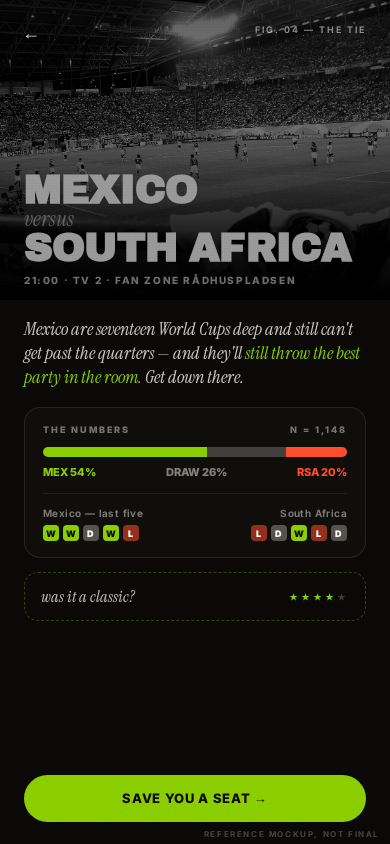
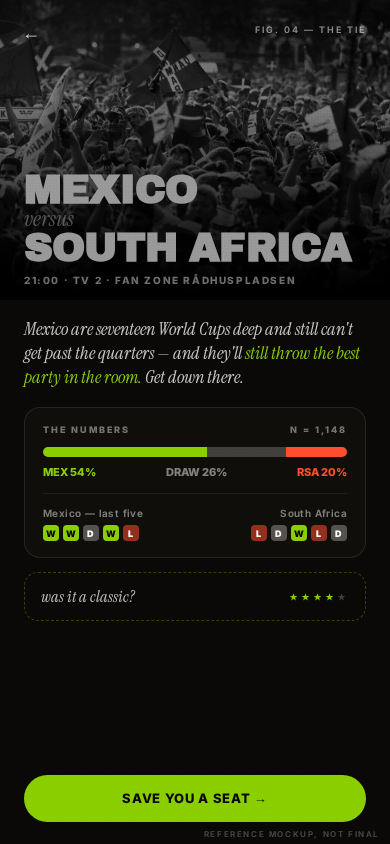
design(rebrand): use the Denmark Euro '92 fan celebration as the hero backdrop
The crowd-of-flags '92 win photo IS the thesis (the city converging — 'find your
people'). Swapped into the splash + match-detail mockups. NOTE: it's a copyrighted
press image used as a reference placeholder only — must be licensed or replaced
with a free equivalent before it ships (see img/README.md).

Changed region(s): [[0.0, 0.0, 1.0, 0.2773]]

diff --git a/docs/rebrand-mockups/blend/c-match.html b/docs/rebrand-mockups/blend/c-match.html
@@ -7,7 +7,7 @@
  .grain{position:absolute;inset:0;opacity:.06;background-image:radial-gradient(rgba(255,255,255,.9) .6px,transparent .7px);background-size:3px 3px;mix-blend-mode:overlay;pointer-events:none;z-index:6}
  /* hero photo — the two teams, archival B&W, the room behind */
  .hero{position:absolute;top:0;left:0;right:0;height:300px;
-   background:url('https://commons.wikimedia.org/wiki/Special:FilePath/FIFA_World_Cup_2006_-_ARG_vs_MEX.jpg?width=1000') center 24%/cover;
+   background:url('img/dk92-crowd.jpg') center 24%/cover;
    filter:grayscale(1) contrast(1.1) brightness(.6)}
  .hero .fade{position:absolute;inset:0;background:linear-gradient(180deg,rgba(10,9,8,.45) 0%,rgba(10,9,8,.12) 34%,rgba(10,9,8,.86) 82%,#0a0908 100%)}
  .back{position:absolute;top:22px;left:22px;z-index:4;font-size:18px;color:rgba(244,242,236,.85)}

diff --git a/docs/rebrand-mockups/blend/a-splash.html b/docs/rebrand-mockups/blend/a-splash.html
@@ -6,7 +6,7 @@
   .wrap{position:relative;width:390px;height:844px;background:radial-gradient(125% 80% at 50% 36%, #15120d 0%, #0a0908 62%)}
   /* full-bleed grainy B&W crowd — the room full of people, masked to a soft vignette */
   .crowd{position:absolute;inset:0;
-    background:url('https://commons.wikimedia.org/wiki/Special:FilePath/FIFA_World_Cup_2006_-_ARG_vs_MEX.jpg?width=1100') center 28%/cover;
+    background:url('img/dk92-crowd.jpg') center 28%/cover;
     filter:grayscale(1) contrast(1.12) brightness(.6);opacity:.42;
     -webkit-mask-image:radial-gradient(125% 72% at 50% 33%, #000 0%, #000 36%, transparent 74%);
             mask-image:radial-gradient(125% 72% at 50% 33%, #000 0%, #000 36%, transparent 74%)}

diff --git a/docs/rebrand-mockups/blend/img/README.md b/docs/rebrand-mockups/blend/img/README.md
@@ -1,0 +1,20 @@
+# Reference imagery — rights note
+
+`dk92-crowd.jpg` — the iconic **Denmark Euro '92** fan celebration (a sea of
+Danmark flags). Used here as the hero/backdrop in the rebrand reference mockups
+because it *is* the thesis: the room/the city converging, "find your people."
+
+**Rights:** this is a **copyrighted press photograph** (Ritzau / Getty / Polfoto
+class), **not** a free/Commons image. It is included only as a *reference mockup*
+to show the creative direction. **It must NOT ship in the product as-is.**
+
+For production, the hero image needs to be either:
+1. **licensed** — likely via Ritzau Scanpix / the Danish FA (DBU) / a national
+   archive (a national-treasure photo a Danish football app can plausibly clear),
+   or
+2. **replaced** with a free/Commons-licensed equivalent (the project's standing
+   discipline — see `docs/ATTRIBUTION.md`; every shipped image is free-licensed
+   with attribution).
+
+Everything else in these mockups (type, palette, layout, the lime-node motif) is
+original and carries no rights encumbrance.
